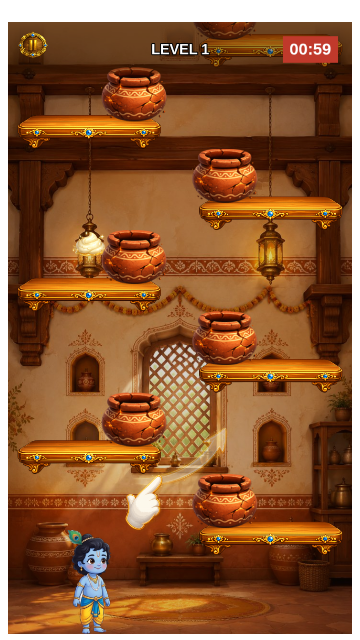
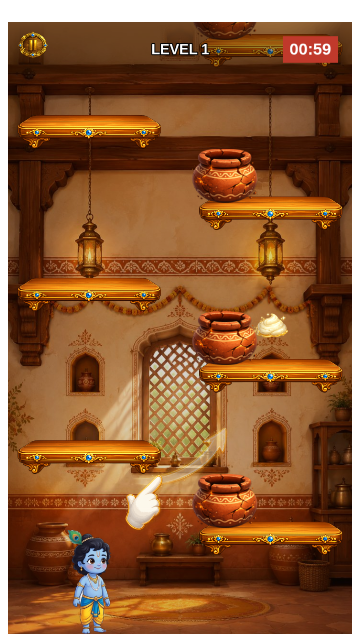
Thin out the hiding pots, and award stars on seconds left
Pots on every ledge

  Every platform carried one, which made the room look like a pottery shelf
  and made hiding automatic - you were almost always standing next to cover
  already. Real cover now sits on every second ledge, so the worst case is a
  single jump to reach it, which the shortest warning still allows.

  Fake pots go on the ledges in between, as additions rather than
  replacements. Turning a real pot into a fake would leave its own ledge two
  jumps from anywhere safe, and no warning is long enough for that - the new
  fairness check in hidetest caught exactly that on levels 6, 7 and 8 before
  it shipped. As extra pots they cost nothing but the decision, which is the
  whole point of them. They also sit on stable ledges: a decoy on a sliding
  cloud is noise, not a choice.

Level 1 is now genuinely easy

  Six ledges instead of twelve, nothing moves, nothing falls away, one visit
  with a 3.2s warning. The curve from there:

    lvl  timer  ledges  cover  visits  warning
     1     60      7      4      1      3200
     2     56      9      5      1      2800
     3     53     11      6      1      2300
     4     50     11      6      2      2200
     5     49     12      6      2      2100
     6     48     13      7      2      2000   fakes appear
     7     47     13      7      3      2000   + jitter
     8     47     13      7      3      2000

Stars on seconds remaining

  20+ left is three, 10-19 is two, 1-9 is one, as asked. Absolute seconds
[…]

diff --git a/src/data/levels.js b/src/data/levels.js
@@ -63,10 +63,21 @@ const HIDE_OFFSET = 95;
 // hesitation rather than less room to physically finish.
 //-------------------------------------------------------------------
 
-const EASY = 60;
-const MEDIUM = 45;
-const HARD = 30;
-const EXPERT = 20;
+// Measured, not chosen. tools/playtest.mjs reports how long each climb takes
+// (13-16s) and each of Yashoda's visits costs its warning plus its watch, so
+// a level needs roughly:
+//
+//   climb + visits x (warning + watch) + 20s of slack
+//
+// The 20 is what makes three stars reachable, since stars are awarded on
+// seconds left rather than on a fraction of the timer. The timers still fall
+// as the levels progress; what falls faster is the slack on top of the work,
+// because the later levels have more to do inside them.
+// Measured against tools/playtest.mjs, which reports each climb at 9-16s,
+// plus every visit costing its warning and its watch. Worked through, the
+// slack left at bot pace is 46, 41, 36, 25, 27, 26, 22, 21 seconds - all at
+// or above the 20 that three stars needs, and falling steadily.
+const TIMERS = [60, 56, 53, 50, 49, 48, 47, 47];
 
 /**
  * Builds a zig-zag ladder of platforms from the bottom upward, finishing with
@@ -80,7 +91,7 @@ const EXPERT = 20;
  */
 function climb({
     from, gap, count, near, far,
-    small = [], moving = [], crumbling = [], fakes = []
+    small = [], moving = [], crumbling = [], fakes = [], hideEvery = 2
 }){
 
     const platforms = [];
@@ -109,10 +120,21 @@ function climb({
 
             ...(small.includes(i) ? { width: SMALL_WIDTH } : {}),
 
-            hide: {
-                x: x - travel * HIDE_OFFSET,
-                real: !fakes.includes(i)
-            }
+            // Real cover sits on every hideEvery-th ledge. A pot on all of
+            // them made the room look like a pottery shelf and made hiding
+            // automatic - you were usually standing next to one already.
+            //
+            // Fakes go on the ledges in between, and are additions rather
+            // than replacements. Turning a real pot into a fake would leave
+            // its ledge two jumps from anywhere safe, which a warning does
+            // not allow time for; as extra pots they cost nothing but the
+            // decision, which is the point of them.
+            ...(i % hideEvery === 0 || fakes.includes(i) ? {
+                hide: {
+                    x: x - travel * HIDE_OFFSET,
+                    real: !fakes.includes(i)
+                }
+            } : {})
         });
 
     }
@@ -154,69 +176,70 @@ const LEFT_FIRST = { near: EDGE_MARGIN, far: EDGE_MARGIN + STEP };
 
 const Levels = [
 
-    // Teaches the climb and the hiding pot. Short, slow, nothing moves, and
-    // Yashoda only looks in once.
+    // Teaches the climb and the pot. Six ledges, nothing moves, nothing falls
+    // away, and Yashoda looks in once with a long warning.
     level({
-        id: 1, timer: EASY, drops: [3],
-        from: 2360, gap: 170, count: 8, ...RIGHT_FIRST,
-        mother: { visits: 1, warning: 2800, watch: 1200 }
+        id: 1, timer: TIMERS[0], drops: [2],
+        from: 2360, gap: 170, count: 6, ...RIGHT_FIRST,
+        mother: { visits: 1, warning: 3200, watch: 1000 }
     }),
 
-    // A longer climb, so the butter sits higher, and less time to reach it.
+    // A longer climb, so the butter sits higher.
     level({
-        id: 2, timer: EASY - 5, drops: [2, 6],
-        from: 2360, gap: 168, count: 10, ...LEFT_FIRST,
-        mother: { visits: 1, warning: 2600, watch: 1300 }
+        id: 2, timer: TIMERS[1], drops: [2, 6],
+        from: 2360, gap: 168, count: 8, ...LEFT_FIRST,
+        mother: { visits: 1, warning: 2800, watch: 1200 }
     }),
 
     // She walks in faster - the same warning, less of it.
     level({
-        id: 3, timer: MEDIUM + 5, drops: [3, 8],
+        id: 3, timer: TIMERS[2], drops: [3, 7],
         from: 2360, gap: 170, count: 10, ...RIGHT_FIRST,
-        mother: { visits: 1, warning: 2000, watch: 1400 }
+        mother: { visits: 1, warning: 2300, watch: 1300 }
     }),
 
-    // Two separate moments to hide, spread across the climb.
+    // Two separate moments to hide, and the first ledge that falls away.
     level({
-        id: 4, timer: MEDIUM, drops: [1, 5, 9],
-        from: 2360, gap: 172, count: 11, ...RIGHT_FIRST,
-        crumbling: [4],
-        mother: { visits: 2, warning: 2000, watch: 1400 }
+        id: 4, timer: TIMERS[3], drops: [1, 5, 9],
+        from: 2360, gap: 172, count: 10, ...RIGHT_FIRST,
+        crumbling: [5],
+        mother: { visits: 2, warning: 2200, watch: 1300 }
     }),
 
     // Ledges that slide, on top of two visits.
     level({
-        id: 5, timer: MEDIUM - 5, drops: [2, 6, 10],
+        id: 5, timer: TIMERS[4], drops: [2, 6, 10],
         from: 2360, gap: 175, count: 11, ...LEFT_FIRST,
         moving: [3, 7], crumbling: [5],
-        mother: { visits: 2, warning: 1900, watch: 1500 }
+        mother: { visits: 2, warning: 2100, watch: 1400 }
     }),
 
-    // Some pots are not hiding places at all. Never two in a row, so there is
-    // always a real one within a single jump.
+    // Some pots are not hiding places at all. Cover sits on every second
+    // ledge, so a fake one has to leave the next pot up or down real -
+    // fakes are kept four apart, never two pots in a row.
     level({
-        id: 6, timer: HARD + 5, drops: [2, 7],
+        id: 6, timer: TIMERS[5], drops: [2, 7],
         from: 2360, gap: 175, count: 12, ...RIGHT_FIRST,
-        moving: [4, 9], crumbling: [6],
-        fakes: [3, 8],
-        mother: { visits: 2, warning: 1900, watch: 1500 }
+        moving: [3, 9], crumbling: [7],
+        fakes: [5, 11],
+        mother: { visits: 2, warning: 2000, watch: 1400 }
     }),
 
     // Everything at once, and she stops keeping to a rhythm.
     level({
-        id: 7, timer: HARD, drops: [3, 8],
+        id: 7, timer: TIMERS[6], drops: [3, 8],
         from: 2360, gap: 175, count: 12, ...LEFT_FIRST,
-        small: [5, 10], moving: [2, 7], crumbling: [4],
-        fakes: [6, 11],
-        mother: { visits: 3, warning: 1800, watch: 1500, jitter: 3000 }
+        small: [5, 11], moving: [3, 9], crumbling: [7],
+        fakes: [5, 11],
+        mother: { visits: 3, warning: 2000, watch: 1400, jitter: 3000 }
     }),
 
     level({
-        id: 8, timer: EXPERT, drops: [4, 9],
+        id: 8, timer: TIMERS[7], drops: [4, 9],
         from: 2360, gap: 175, count: 12, ...RIGHT_FIRST,
-        small: [3, 6, 10], moving: [2, 8], crumbling: [5],
-        fakes: [4, 9],
-        mother: { visits: 3, warning: 1600, watch: 1600, jitter: 3500 }
+        small: [3, 5, 11], moving: [7, 9], crumbling: [1],
+        fakes: [3, 11],
+        mother: { visits: 3, warning: 2000, watch: 1500, jitter: 3500 }
     })
 
 ];

diff --git a/src/ui/StarReward.js b/src/ui/StarReward.js
@@ -1,24 +1,37 @@
-// Stars are awarded on the fraction of the level's timer left, so the
-// thresholds hold for every level regardless of its length.
+// Stars are awarded on how many seconds are left on the clock, not on what
+// fraction of the timer that is. Twenty seconds spare means the same thing to
+// a player whether the level allowed sixty or forty-five - it is the margin
+// they can feel, and a fraction of an unseen total is not.
+//
+// This is why every level's timer has to leave room for three stars to be
+// possible: a level whose timer is 20s can never award them, because
+// finishing with 20s left would mean finishing instantly. Timers in
+// levels.js are set from measured completion times with that in mind.
 
-export default function getStars(timeLeft,totalTime){
+const THREE = 20;
+const TWO = 10;
+const ONE = 1;
 
-    const fraction = totalTime > 0
-        ? timeLeft / totalTime
-        : 0;
+export default function getStars(timeLeft){
 
-    if(fraction >= 0.6){
+    if(timeLeft >= THREE){
 
         return 3;
 
     }
 
-    if(fraction >= 0.3){
+    if(timeLeft >= TWO){
 
         return 2;
 
     }
 
-    return 1;
+    if(timeLeft >= ONE){
+
+        return 1;
+
+    }
+
+    return 0;
 
 }

diff --git a/src/scenes/GameScene.js b/src/scenes/GameScene.js
@@ -1256,7 +1256,7 @@ export default class GameScene extends Phaser.Scene {
         AudioManager.play(this,"collect");
 
         const result = {
-            stars: getStars(this.timeLeft, this.totalTime),
+            stars: getStars(this.timeLeft),
             timeLeft: this.timeLeft,
             level: this.level
         };
